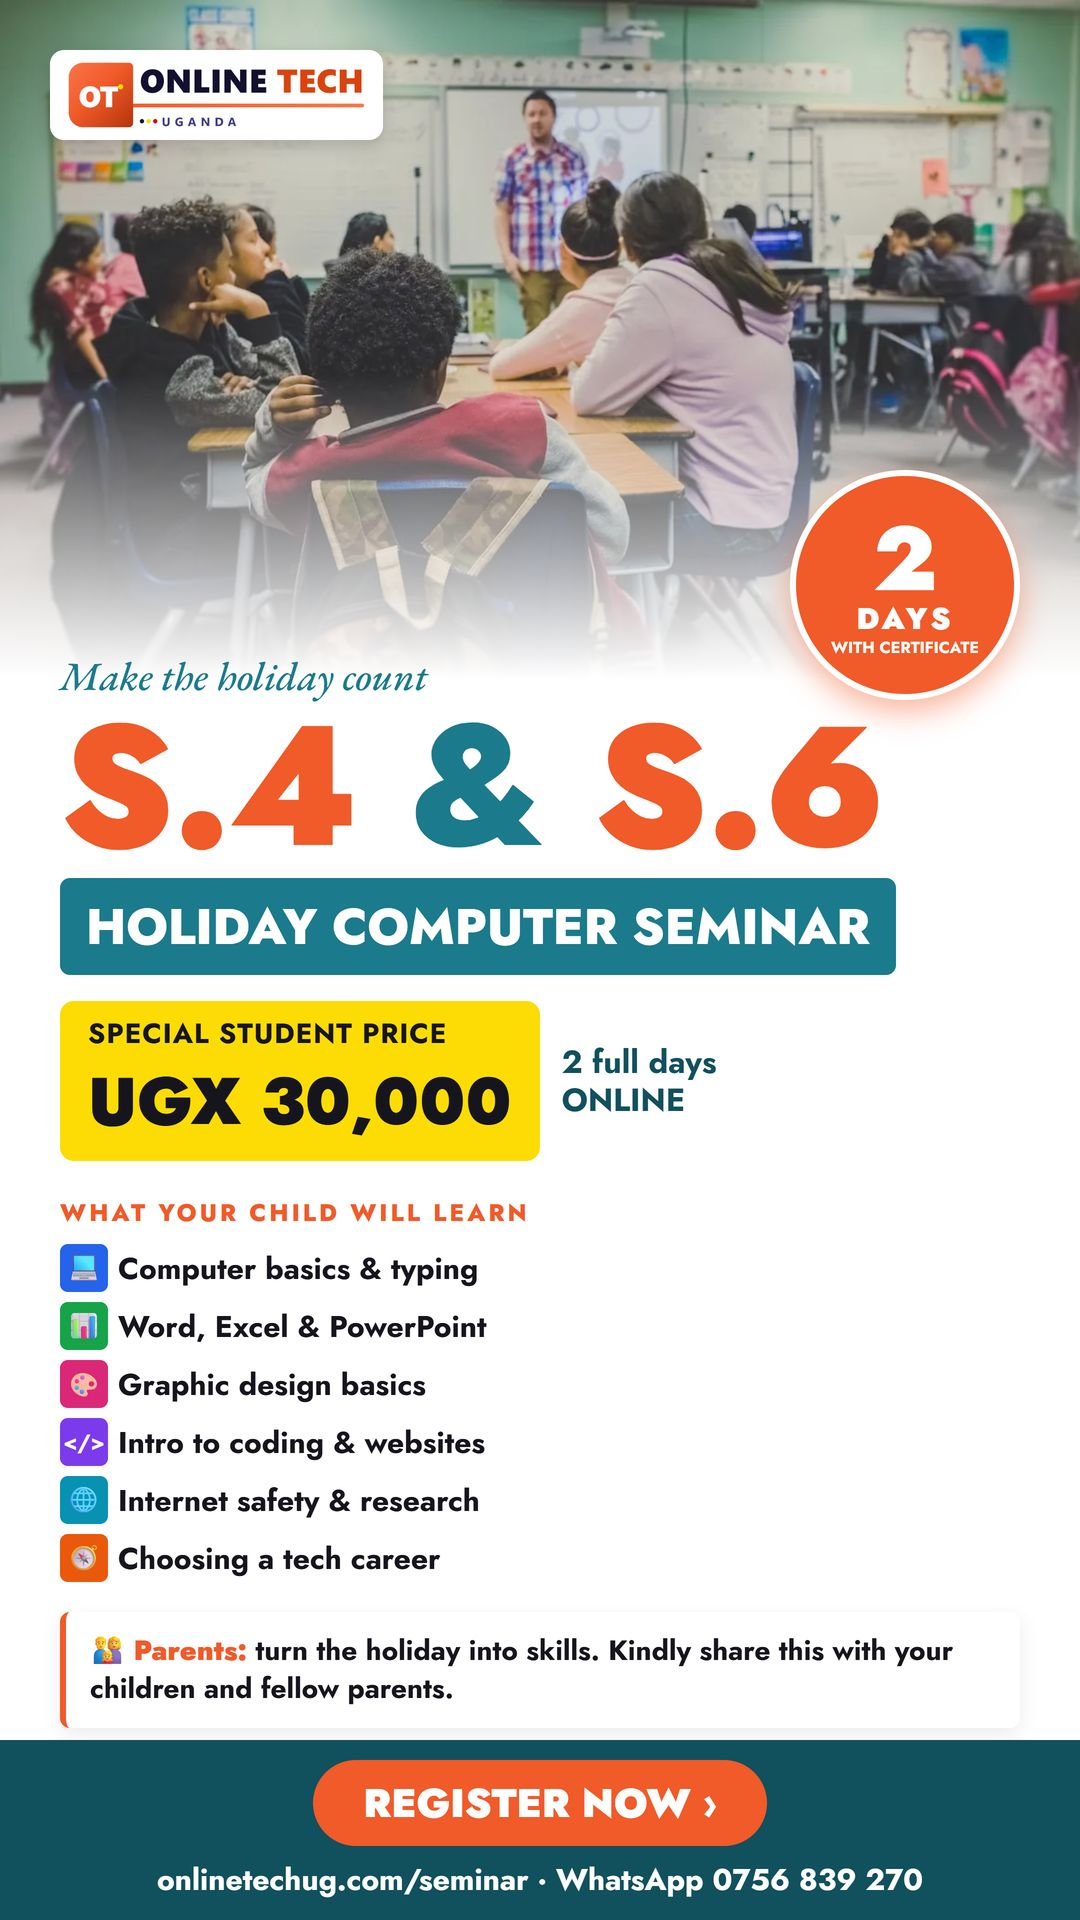
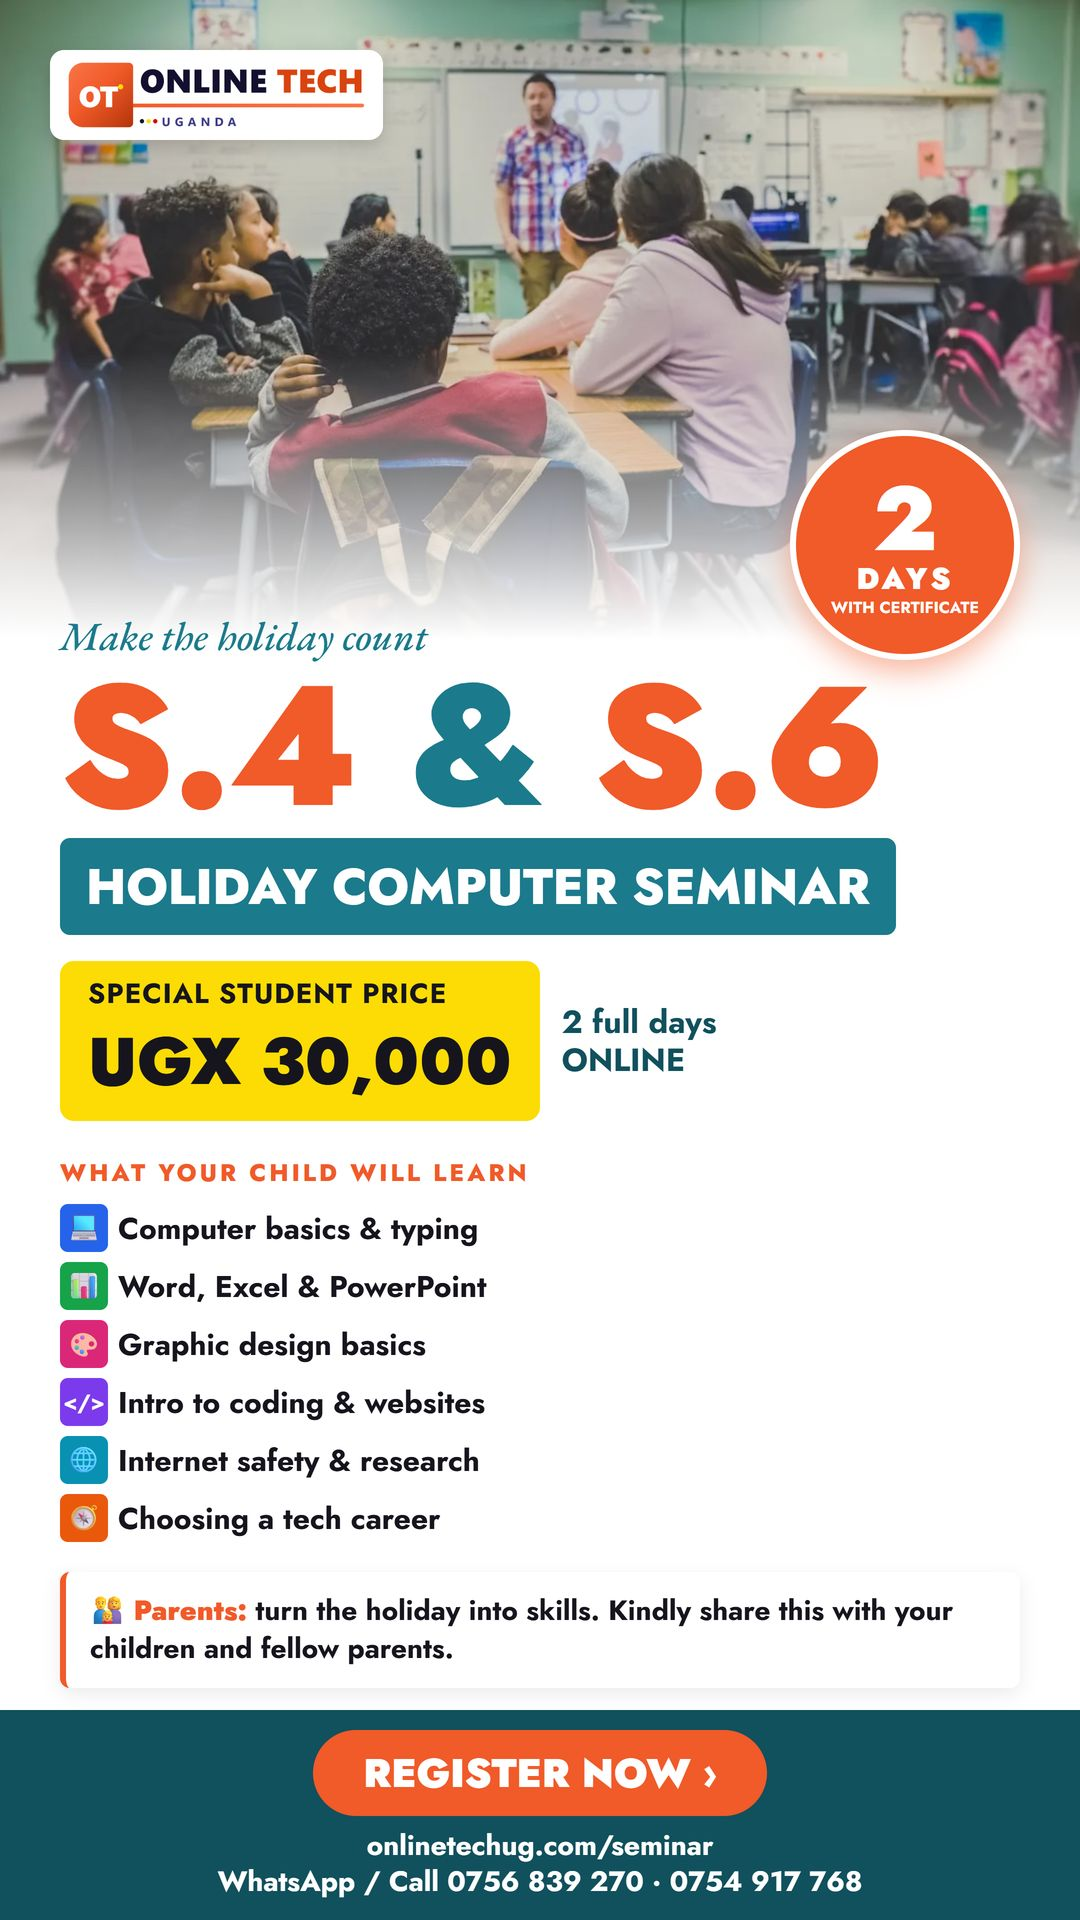
Seminar: add 0754 917 768 to the page, form and posters

diff --git a/apps/web/src/components/seminar-form.tsx b/apps/web/src/components/seminar-form.tsx
@@ -72,6 +72,7 @@ export function SeminarForm() {
     <form onSubmit={submit} className="rounded-md bg-white p-6 shadow-sm">
       <p className="text-[24px] font-semibold text-ink-900">Register a student</p>
       <p className="mt-1 text-[14px] text-ink-700/75">Parents may register for their children. We confirm the dates and how to pay.</p>
+      <p className="mt-2 text-[14px] font-semibold text-ink-900">📞 Call or WhatsApp: <a href="tel:+256756839270" className="text-brand-600">0756 839 270</a> · <a href="tel:+256754917768" className="text-brand-600">0754 917 768</a></p>
       <div className="mt-4 grid gap-3">
         <label className="text-[14px] font-semibold text-ink-800">Student&apos;s full name<input name="student" required minLength={2} className={input} /></label>
         <label className="text-[14px] font-semibold text-ink-800">
@@ -93,7 +94,7 @@ export function SeminarForm() {
       </button>
       {sent === "fail" && (
         <p className="mt-3 text-[14px] text-red-600">
-          That did not go through. Please WhatsApp 0756 839 270 with the student&apos;s name and class.
+          That did not go through. Please WhatsApp 0756 839 270 or 0754 917 768 with the student&apos;s name and class.
         </p>
       )}
     </form>

diff --git a/apps/web/src/app/seminar/page.tsx b/apps/web/src/app/seminar/page.tsx
@@ -78,6 +78,7 @@ export default function SeminarPage() {
             >
               Share on WhatsApp
             </a>
+            <p className="mt-3 text-[14px] text-ink-700/85">Questions? Call or WhatsApp <a href="tel:+256756839270" className="font-semibold text-brand-600">0756 839 270</a> or <a href="tel:+256754917768" className="font-semibold text-brand-600">0754 917 768</a>.</p>
           </div>
 
           <div className="mt-8 overflow-hidden rounded-md">
